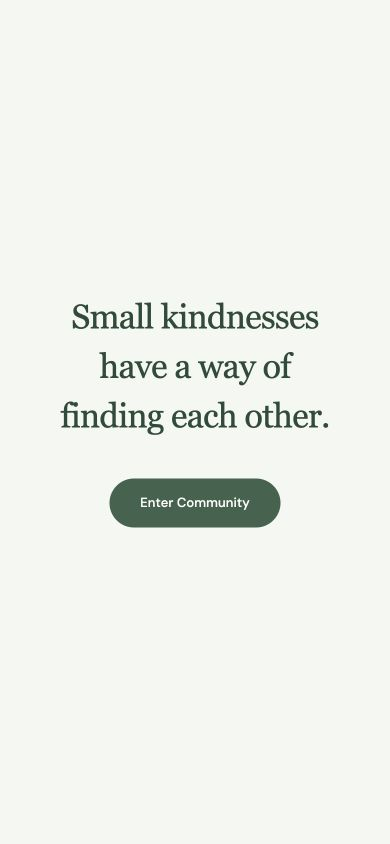
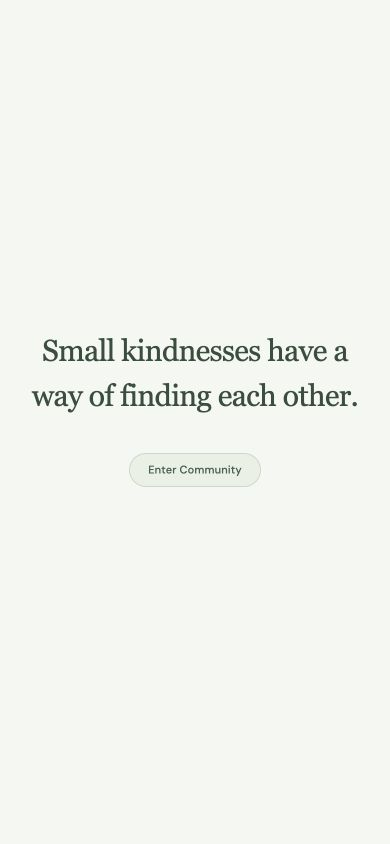
Refine daily reflection typography and compact entry button

Changed region(s): [[0.0923, 0.3389, 0.9231, 0.5237], [0.2769, 0.5545, 0.7385, 0.6469]]

diff --git a/community.css b/community.css
@@ -78,8 +78,10 @@ body:has(dialog[open]){overflow:hidden}
 /* A single thought and one clear action. Only these two elements animate. */
 .daily-dialog{position:fixed;inset:0;width:100vw;max-width:none;height:100vh;height:100dvh;max-height:none;padding:40px 26px;border:0;border-radius:0;margin:0;background:#f5f7f2;box-shadow:none;color:#294b39}
 .daily-dialog::backdrop{background:#f5f7f2}.daily-dialog[open]{display:flex;align-items:center;justify-content:center}
-.daily-content{width:min(360px,100%);text-align:center;margin-top:-24px;display:flex;flex-direction:column;align-items:center}
-#daily-words{font-family:Georgia,'Times New Roman',serif;font-size:34px;font-weight:400;line-height:1.45;letter-spacing:-.7px;text-wrap:balance;overflow-wrap:break-word;margin:0 0 38px;color:#294b39;outline:none}
-.daily-enter.button{position:static;display:inline-flex;align-items:center;justify-content:center;border:1px solid #40634f;border-radius:28px;background:#40634f;color:#fcfdf9;min-height:48px;padding:13px 30px;font-size:13px;font-weight:500;letter-spacing:.1px;box-shadow:none;margin:0}
-@media(max-width:360px){.daily-dialog{padding:30px 23px}#daily-words{font-size:29px;letter-spacing:-.5px;margin-bottom:34px}.daily-enter.button{font-size:12px;min-height:46px;padding:12px 27px}}
+.daily-content{width:min(330px,100%);text-align:center;margin-top:-24px;display:flex;flex-direction:column;align-items:center}
+#daily-words{font-family:Georgia,'Times New Roman',serif;font-size:30px;font-weight:400;line-height:1.5;letter-spacing:-.6px;text-wrap:balance;overflow-wrap:break-word;margin:0 0 30px;color:#344e3e;outline:none}
+.daily-enter.button{position:relative;isolation:isolate;display:inline-flex;align-items:center;justify-content:center;border:0;border-radius:20px;background:transparent;color:#40634f;min-height:44px;padding:10px 19px;font-size:11px;font-weight:500;letter-spacing:.15px;box-shadow:none;margin:0}
+.daily-enter.button::before{content:"";position:absolute;inset:5px 0;z-index:-1;border:1px solid #cdd8c7;border-radius:18px;background:#eaf0e5}
+.daily-enter.button:focus-visible{outline:2px solid #40634f;outline-offset:3px}
+@media(max-width:360px){.daily-dialog{padding:30px 26px}#daily-words{font-size:27px;letter-spacing:-.4px;margin-bottom:26px}}
 @media(max-height:650px){.daily-dialog{padding:25px}.daily-content{margin-top:0}#daily-words{font-size:28px;margin-bottom:28px}}

diff --git a/index.html b/index.html
@@ -4,7 +4,7 @@
 <meta charset="utf-8"><meta name="viewport" content="width=device-width, initial-scale=1, viewport-fit=cover">
 <meta name="theme-color" content="#f3f1ec"><meta name="description" content="A little good, every day. Small acts of kindness, one shared San Diego community.">
 <title>Bamboo — A little good, every day</title>
-<link rel="stylesheet" href="ui.css?v=20261107-5"><link rel="stylesheet" href="assets/bamboo-motion.css"><link rel="stylesheet" href="quiet.css?v=20261107-5"><link rel="stylesheet" href="community.css?v=20261107-5">
+<link rel="stylesheet" href="ui.css?v=20261107-5"><link rel="stylesheet" href="assets/bamboo-motion.css"><link rel="stylesheet" href="quiet.css?v=20261107-5"><link rel="stylesheet" href="community.css?v=20261107-6">
 <link rel="stylesheet" href="navigation.css?v=1"></head>
 <body>
 <dialog id="launch" class="launch" aria-labelledby="launch-title">
